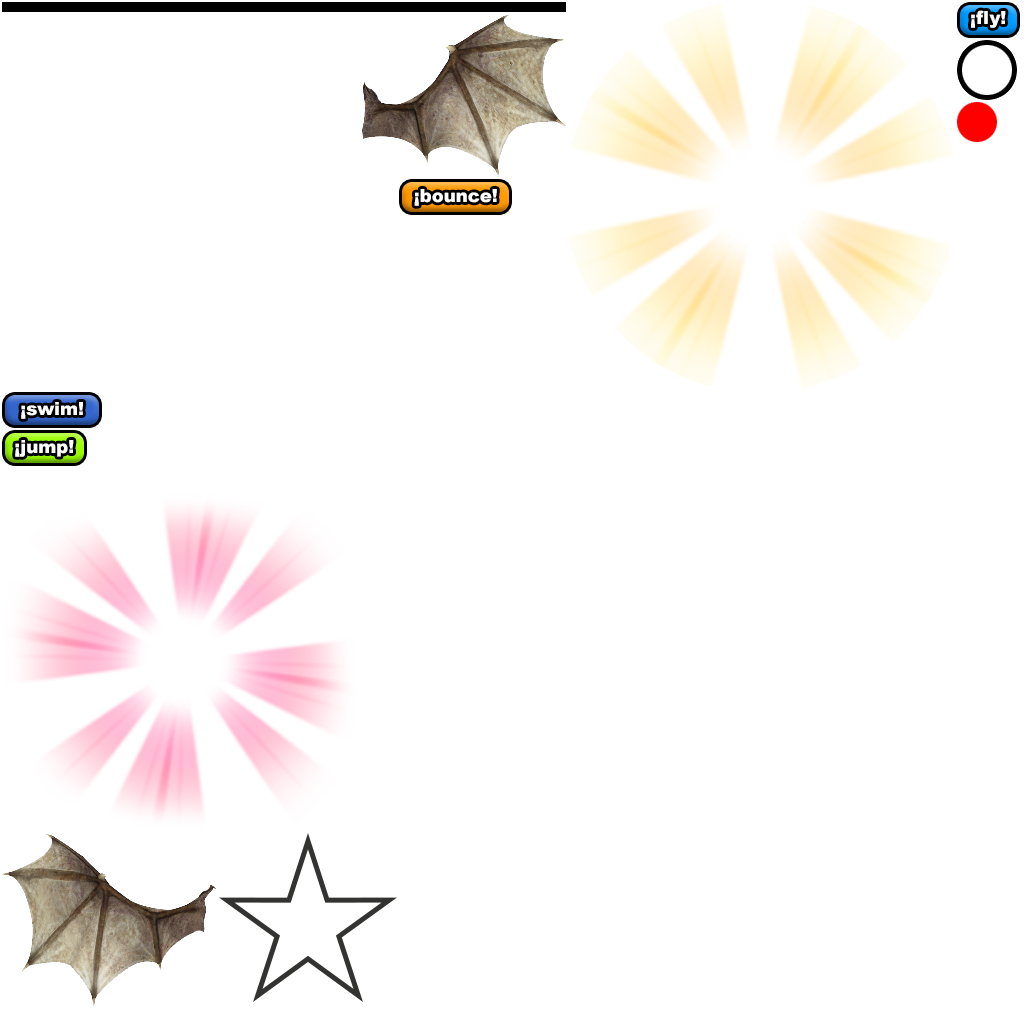
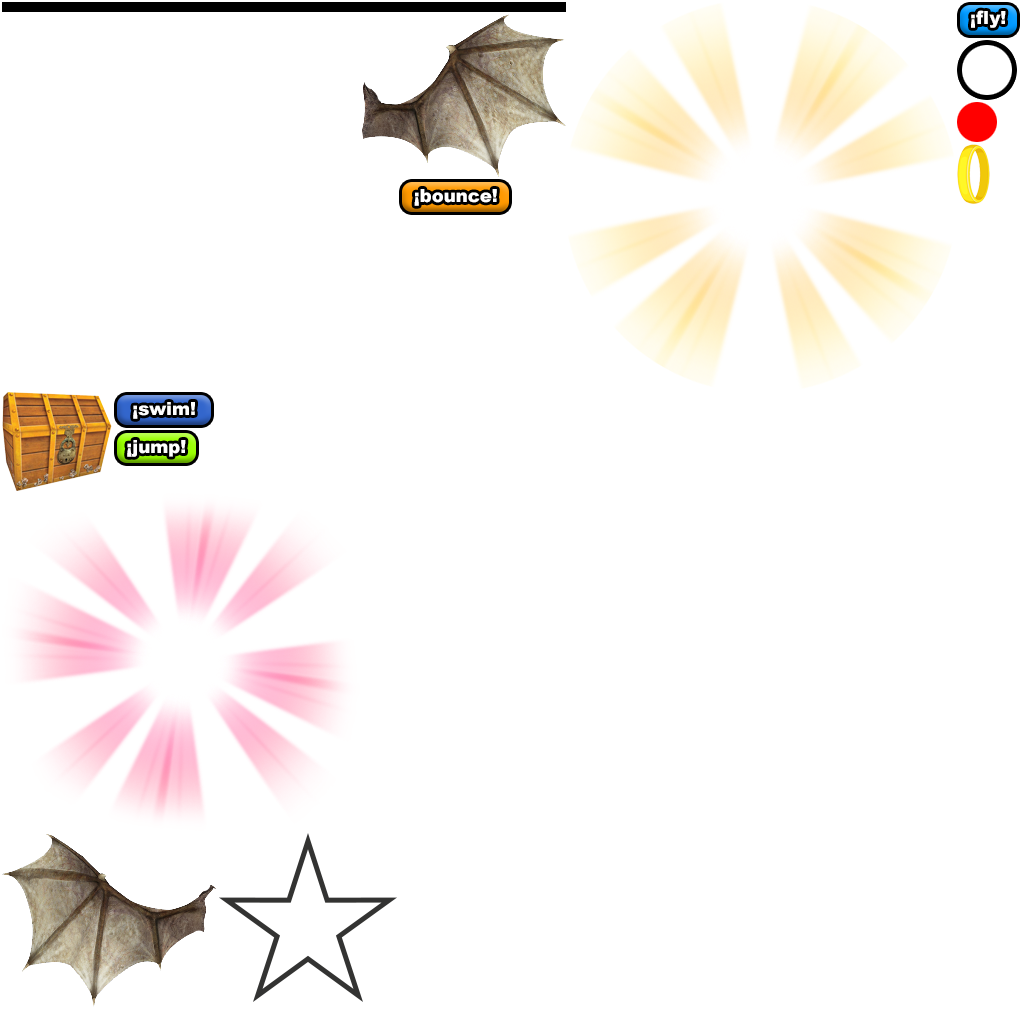
treasure

Changed region(s): [[0.0, 0.375, 0.2188, 0.5], [0.9375, 0.125, 0.9688, 0.2188]]

diff --git a/src/animations/supportingClasses/treasure.js b/src/animations/supportingClasses/treasure.js
@@ -1,0 +1,132 @@
+import * as PIXI from 'pixi.js';
+import Utils from '../utils/utils';
+export default {
+	ringQ: 0,
+	chestQ: 0,
+	rings: [],
+	chests: [],
+	utils: Utils,
+	hit: false,
+	activeChest: undefined,
+	line: undefined,
+	radialQ: undefined,
+	radialCont: new PIXI.Container(),
+	ringCont: new PIXI.Container(),
+	radials: [],
+	gravity: 0.3,
+	counter: 0,
+	animationLimit: 120,
+	init: function (app, wh, spritesheet, hero) {
+		this.stage = app.stage;
+		this.wh = wh;
+		this.hero = hero;
+		this.ringQ = app.renderer instanceof PIXI.WebGLRenderer ? 500 : 10;
+		this.chestQ = app.renderer instanceof PIXI.WebGLRenderer ? 1 : 1;
+		this.radialQ = this.pelletQ = app.renderer instanceof PIXI.WebGLRenderer ? 100 : 10;
+		this.halfWidth = this.wh.canvasWidth / 2;
+		this.halfHeight = this.wh.canvasHeight / 2;
+		for (let i = 0; i < this.ringQ; i ++) {
+			let r = new PIXI.Sprite(spritesheet.textures['treasureRing.png']);
+			r.scale.set(this.utils.randomNumberBetween(0.1, 0.5));
+			r.vy = this.utils.randomNumberBetween(-20, -1);
+			r.vx = this.utils.randomNumberBetween(-4, 4);
+			r.floor = this.halfHeight - r.height;
+			this.ringCont.addChild(r);
+			this.rings.push(r);
+
+			if (!(i >= this.chestQ)) {
+				let c = new PIXI.Sprite(spritesheet.textures['treasureChest.png']);
+				c.scale.set(this.utils.randomNumberBetween(0.1, 0.5));
+				c.anchor.set(0.5);
+				c.x = wh.canvasWidth / 2;
+				this.stage.addChild(c);
+				this.chests.push(c);
+			}
+
+		}
+
+		for(let i = 0; i < this.radialQ; i ++){
+			let r = new PIXI.Sprite(spritesheet.textures['line.png']);
+			r.width = 1;
+			r.height = this.utils.randomNumberBetween(100, 500);
+			r.alpha = this.utils.randomNumberBetween(0.2, 0.8);
+			r.anchor.x = 0;
+			r.anchor.y = 0;
+			r.storeHeight = r.height;
+			r.variance = this.utils.randomNumberBetween(20, 50);
+			r.rotation = this.utils.deg2rad(i*(360 / this.radialQ));
+			r.speed = this.utils.randomNumberBetween(.0003, .003);
+			r.tint = 0xFFFF00;
+			this.radials.push(r);
+			this.radialCont.addChild(r);
+		}
+
+	},
+	playAnimation: function () {
+		//place chest in center and rock it back and forth;
+		this.storeObject = {
+			scale: this.activeChest.scale.x,
+			x: this.activeChest.x,
+			y: 0
+		}
+		this.activeChest.scale.set(1);
+		this.activeChest.x = this.radialCont.x = this.wh.canvasWidth / 2;
+		this.activeChest.y = this.radialCont.y = this.wh.canvasHeight / 2;
+
+		this.stage.addChildAt(this.radialCont, this.activeChest._zIndex - 1)
+
+		//explode coins
+		this.ringCont.x = this.wh.canvasWidth / 2;
+		this.ringCont.y = this.wh.canvasHeight / 2;
+		this.stage.addChild(this.ringCont);
+	},
+	animateSpecial: function () {
+		for (let i = 0; i < this.ringQ; i ++) {
+			let r = this.rings[i];
+			r.vy += this.gravity;
+			r.y += r.vy;
+			r.x += r.vx;
+
+			if (r.y >= r.floor) {
+				r.vy *= -1;
+			} 
+
+			if(r.x < -this.halfWidth || r.x > this.halfWidth) {
+				r.vx *= -1;
+			}
+		}
+		this.counter ++;
+		if(this.counter === this.animationLimit) {
+			this.reset();
+		}
+	},
+	reset: function () {
+
+		for (let i = 0; i < this.ringQ; i ++) {
+			let r = this.rings[i];
+			r.vy = this.utils.randomNumberBetween(-20, -1);
+			r.vx = this.utils.randomNumberBetween(-4, 4);
+		}
+		this.counter = 0;
+		this.hit = false;
+		this.stage.removeChild(this.ringCont);
+		this.activeChest.scale.set(this.storeObject.scale);
+		this.activeChest.x = this.storeObject.x;
+		this.activeChest.y = this.storeObject.y;
+	},
+	animate: function () {
+		for (let i = 0; i < this.chestQ; i ++) {
+			let c = this.chests[i];
+			c.y += 4;
+
+			let tempRect = {x: c.x, y: c.y, width: c.width, height: c.height};
+			if(this.utils.circleRectangleCollisionRegPointCenter(this.hero, tempRect)){
+				this.hit = true;
+				this.activeChest = c;
+				this.playAnimation();
+			} 
+
+		}
+	}
+
+}

diff --git a/src/animations/intro_animation.js b/src/animations/intro_animation.js
@@ -12,8 +12,9 @@ import TransitionItems from './supportingClasses/transitionItems';
 import FilterAnimation from './supportingClasses/filterAnimation';
 import Gears from './supportingClasses/gears';
 import Hero from './supportingClasses/hero';
-import TransitionAnimation from './transitionAnimation';
+import TransitionAnimation from './supportingClasses/transitionAnimation';
 import Ripples from '../animations/supportingClasses/ripples';
+import Treasure from '../animations/supportingClasses/treasure';
 import PixiFps from "pixi-fps";
 export default function(obj) {
 	return {
@@ -42,9 +43,10 @@ export default function(obj) {
         hero: Hero,
         transitionItems: TransitionItems,
         transitionAnimation: TransitionAnimation,
+        utils: Utils,
+        treasure: Treasure,
 		init: function () {
 
-			this.utils = Utils();
 			this.canvasWidth =  this.utils.returnCanvasWidth();
 			this.canvasHeight = this.utils.returnCanvasHeight();
 
@@ -90,7 +92,9 @@ export default function(obj) {
 
             this.transitionItems.init(this.mode, this.stage, this.wh, this.spritesheet).build();
 
-            this.transitionAnimation.init(this.app, this.wh).addAnimations(this.stage, this.hero.cont);
+            this.transitionAnimation.init(this.app, this.wh, this.spritesheet).addAnimations(this.stage, this.hero.cont);
+
+            this.treasure.init(this.app, this.wh, this.spritesheet, this.hero.cont);
 
             this.switchPlayer(this.mode[this.activeModeIndex]);
 
@@ -273,7 +277,7 @@ export default function(obj) {
 			let tempRect = this.transitionItems.returnItem();
 
 			
-
+			//should this be in transition items?
 			if(this.utils.circleRectangleCollisionRegPointCenter(this.hero.cont, tempRect)){
 				this.action = false;
 				this.filterAnimation.shutOff();
@@ -287,6 +291,17 @@ export default function(obj) {
 				}
 			} 
 
+			if (this.treasure.hit) {
+				if(this.action){
+					this.filterAnimation.shutOff();
+					this.action = false;
+				}
+				
+				this.treasure.animateSpecial();
+			} else {
+				this.action = true;
+			}
+
 			if(this.action){
 				if(this.rotateLeftBoolean)this.rotate('left');
 				if(this.rotateRightBoolean)this.rotate('right');
@@ -295,6 +310,7 @@ export default function(obj) {
 				this.magicPills.animate();
 				this.gears.animate();
 				this.transitionItems.animate();
+				this.treasure.animate();
 				if(this.activeMode === 'bounce'){
 					this.bouncePlatform.animate();
 					this.bounceAction.animate();

diff --git a/src/animations/utils/utils.js b/src/animations/utils/utils.js
@@ -1,5 +1,4 @@
-export default function(gv,createjs) {
-  return {
+export default {
     distributeAroundCircle:  function (numElements, radius) {
         let arr = [];
         for (let i = 0; i < numElements; i++) {
@@ -20,11 +19,6 @@ export default function(gv,createjs) {
         ys = ys * ys;
 
         return Math.sqrt(xs + ys);
-    },
-    traceGlobal: function () {
-        for (var key in gv) {
-            console.log(key + ") " + gv[key]);
-        }
     },
     lineAngle: function(point1, point2) {
         return Math.atan2(point2.y - point1.y, point2.x - point1.x);
@@ -313,25 +307,6 @@ export default function(gv,createjs) {
     centerOnStage: function (mc, canvasWidth, canvasHeight) {
         mc.body.x = (canvasWidth - mc.body.getBounds().width) / 2;
         mc.body.y = (canvasHeight - mc.body.getBounds().height) / 2;
-    },
-    AssetLoaderClass: function (gv, loading_text_visible) {
-
-        //load graphic assets and show loading text
-        this.gv = gv;
-
-        if (loading_text_visible === undefined) loading_text_visible = true;
-
-        var loaderProgressText = new createjs.Text(0 + " %", "bold 50px Arial", "#FFFF00");
-        loaderProgressText.visible = loading_text_visible
-        this.bounds = loaderProgressText.getBounds();
-
-
-        loaderProgressText.x = gv.halfWidth - (this.bounds.width / 2);
-        loaderProgressText.y = gv.halfHeight - (this.bounds.height / 2);
-
-        this.loaderProgressText = loaderProgressText;
-        var loader = new createjs.LoadQueue(false);
-        this.loader = loader;
     }
-   }
-};
+
+}

diff --git a/src/animations/supportingClasses/transitionAnimation.js b/src/animations/supportingClasses/transitionAnimation.js
@@ -1,8 +1,8 @@
 import * as PIXI from 'pixi.js';
-import Utils from './utils/utils';
+import Utils from '../utils/utils';
 
 export default {
-	line: new PIXI.Texture.fromImage('/bmps/line.png'),
+	line: undefined,
 	radialQ: undefined,
 	explosionQ: undefined,
 	radials: [],
@@ -17,7 +17,7 @@ export default {
 	animationLength: 120,
 	done: false,
 	utils: Utils,
-	init: function (app, wh) {
+	init: function (app, wh, spritesheet) {
 		this.halfAnimationLength = this.animationLength / 2;
 		this.radialCont.scale.set(0);
 		this.canvasHeight = wh.canvasHeight;
@@ -28,7 +28,7 @@ export default {
 		this.explosionQ = this.pelletQ = app.renderer instanceof PIXI.WebGLRenderer ? 1000 : 10;
 
 		for(let i = 0; i < this.radialQ; i ++){
-			let r = new PIXI.Sprite(this.line);
+			let r = new PIXI.Sprite(spritesheet.textures['line.png']);
 			r.width = 1;
 			r.height = this.utils.randomNumberBetween(100, 500);
 			r.alpha = this.utils.randomNumberBetween(0.2, 0.8);

diff --git a/src/animations/supportingClasses/transitionItems.js b/src/animations/supportingClasses/transitionItems.js
@@ -1,5 +1,4 @@
 import * as PIXI from 'pixi.js';
-import Utils from '../utils/utils';
 export default {
 	textures: [],
 	currentItem: undefined,
@@ -36,7 +35,12 @@ export default {
 		this.cont.addChild(this.currentItem);
 	},
 	returnItem: function () {
-		return {x: this.currentItem.x, y: this.currentItem.y, height: this.currentItem.height, width: this.currentItem.width}
+		return {
+			x: this.currentItem.x, 
+			y: this.currentItem.y, 
+			height: this.currentItem.height, 
+			width: this.currentItem.width
+		}
 	},
 	animate: function () {
 		this.currentItem.y += this.speed;

diff --git a/src/animations/supportingClasses/actions/jumpAction.js b/src/animations/supportingClasses/actions/jumpAction.js
@@ -7,12 +7,12 @@ export default {
 		vx: 0,
 		jumpTimer: 0,
 		jumpTimeLimit: 21,
+		utils: Utils,
 		init: function (hero, platforms, canvasWidth, canvasHeight, platformCont, stage) {
 			this.hero = hero;
 			this.platforms = platforms;
 			this.canvasWidth = canvasWidth;
 			this.canvasHeight = canvasHeight;
-			this.utils = Utils();
 			this.platformCont = platformCont;
 			this.stage = stage;
 

diff --git a/src/animations/supportingClasses/actions/bounceAction.js b/src/animations/supportingClasses/actions/bounceAction.js
@@ -6,12 +6,12 @@ export default {
 		vy: 0,
 		angle: 0,
 		velocity: 10,
+		utils: Utils,
 		init: function (hero, bouncePlatform, canvasWidth, canvasHeight) {
 			this.hero = hero;
 			this.bouncePlatform = bouncePlatform;
 			this.canvasWidth = canvasWidth;
 			this.canvasHeight = canvasHeight;
-			this.utils = Utils();
 		},
 		resize: function (wh) {
 			this.canvasWidth = wh.canvasWidth;

diff --git a/src/animations/supportingClasses/bouncePlatform.js b/src/animations/supportingClasses/bouncePlatform.js
@@ -6,9 +6,9 @@ export default {
         dot2: new PIXI.Sprite(),
         mouseDown:false, 
         startMode: true,
+        utils: Utils,
         init: function (cont, spritesheet) {
             this.cont = cont;
-            this.utils = Utils();
             this.line.height = 2;
             this.line.anchor.y = 0.5;
             this.line.tint = 0x000000;

diff --git a/src/animations/supportingClasses/hero.js b/src/animations/supportingClasses/hero.js
@@ -14,9 +14,9 @@ export default {
 		platforms: [],
 		yOffset: 0,
 		parentCont: undefined,
+		utils: Utils,
 		init: function (wh, items, parentCont, spritesheet) {
 			this.parentCont = parentCont;
-			this.utils = Utils();
 			this.canvasWidth = wh.canvasWidth;
 			this.canvasHeight = wh.canvasHeight;
             this.cont.x = this.canvasWidth / 2;

diff --git a/src/animations/supportingClasses/magicPills.js b/src/animations/supportingClasses/magicPills.js
@@ -6,8 +6,8 @@ export default {
 		effect: false,
 		lifeSpan: 100,
 		counter: 0,
+		utils: Utils,
 		init: function (app, wh, effectFunction, cont, spritesheet) {
-			this.utils = Utils();
 			this.effectFunction = effectFunction;
 			var pills = new PIXI.particles.ParticleContainer(10000, {
 			    scale: true,

diff --git a/src/animations/supportingClasses/art_board_sub.js b/src/animations/supportingClasses/art_board_sub.js
@@ -14,8 +14,8 @@ export default function() {
 		dotSize: 10,
 		primary: false,
 		edited: false,
+		utils: Utils,
 		init: function (fake) {
-			this.utils = Utils();
 
 			this.lsToken = localStorage.getItem('token');
 	        this.canvasWidth = this.width;

diff --git a/src/animations/supportingClasses/pellets.js b/src/animations/supportingClasses/pellets.js
@@ -2,7 +2,7 @@ import * as PIXI from 'pixi.js';
 import Utils from '../utils/utils';
 export default {
 		pelletsArray: [],
-		utils: Utils(),
+		utils: Utils,
 		edgeBuffer: 200,
 		activeMode: undefined,
 		init: function (app, wh, cont, str, spritesheet) {
